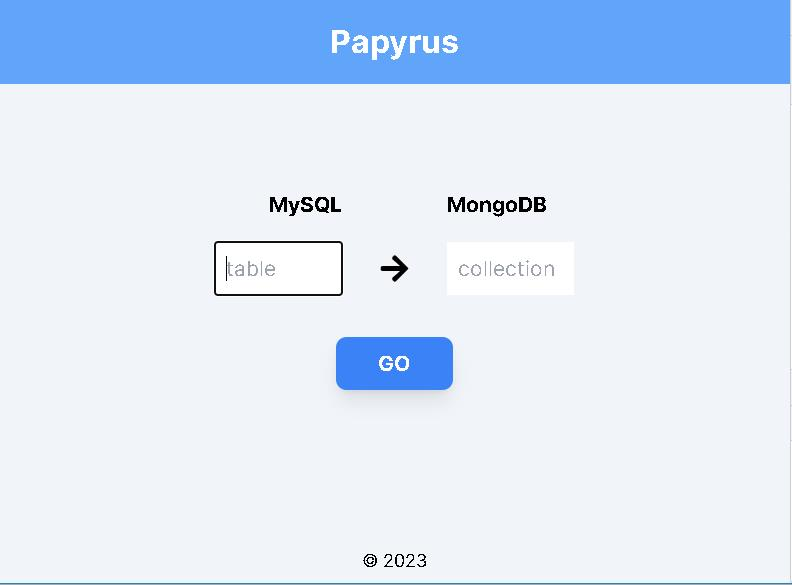
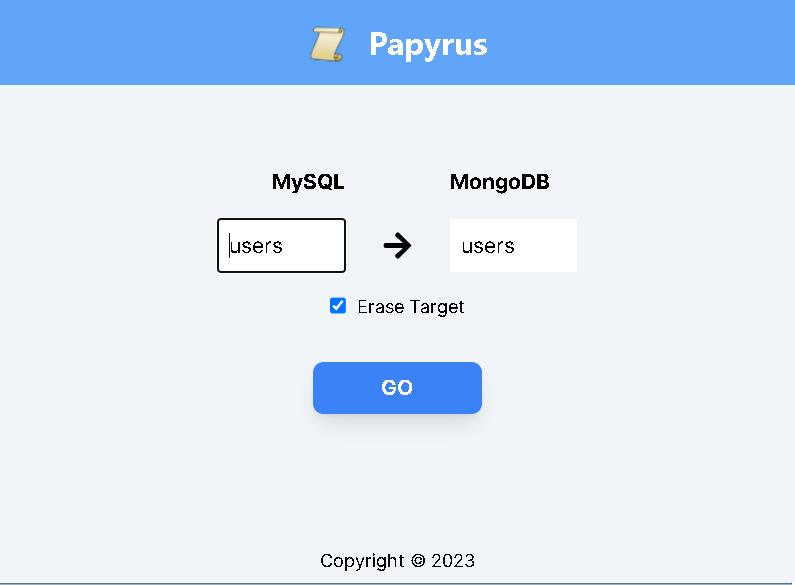
works

diff --git a/src/components/Main.js b/src/components/Main.js
@@ -1,27 +1,48 @@
 "use client"
 import { FaArrowLeft, FaArrowRight } from "react-icons/fa";
 import { M2M, Mdelete } from '@/server-actions/actions'
-import { useState } from 'react'
+import { useState, useEffect } from 'react'
 import toast, { Toaster } from 'react-hot-toast'
 
 const Main = () => {
     const [direction, setDirection] = useState('MySQL')
+    const [erase, setErase] = useState(true)
     const [table, setTable] = useState('users')
     const [collection, setCollection] = useState('users')
+    const [disable, setDisable] = useState(false)
+
+    useEffect(()=>{
+      if (table.trim()!=='' && collection.trim()!=='')
+        setDisable(false)
+      else 
+        setDisable(true)
+    }, [table, collection])
 
     const handleArrowClick = () => {
       if (direction==='MySQL') 
         setDirection('MongoDB')
       else
         setDirection('MySQL')
-    }
-    const handleClick = () => {
-      Mdelete(direction, table, collection)
-        .then(result => console.log(result))
-        .catch(err => console.log(err))
+    }   
+    
+    const handleGoClick = async () => {      
+      // M2M(direction, table, collection)
+      //   .then(result => console.log(result))
+      //   .catch(err => console.log(err))
+      try {
+        if (erase) {
+          const resultErase = await Mdelete(direction, table, collection)
+          console.log('resultErase=', resultErase)
+        }
+        const resultCopy = await M2M(direction, table, collection)
+        console.log('resultCopy=', resultCopy)
+      } catch(error) {
+        console.log(error)
       }
+    }
+    
     return (        
-        <div className='flex flex-col items-center justify-center h-2/3'>
+        <main className='flex flex-col items-center justify-center h-4/6'>
           
           <div className='flex flex-row items-center gap-4 mt-4 justify-self-stretch'>
               <span className='w-24 font-bold text-right'>MySQL</span>
@@ -40,14 +61,21 @@ const Main = () => {
               onChange={ e => setCollection(e.target.value) } defaultValue={collection} />
           </div>
           
+          <div className='flex gap-2 mt-4'>
+            <input id='erase' type='checkbox' 
+            checked={erase ? 'checked':''} onChange={ () => setErase(! erase) }></input>
+            <label htmlFor='erase' className='text-sm capitalize'>erase target</label>
+          </div>
+
           <div>
-            <button className='w-auto px-8 py-2 mt-8 font-bold text-white uppercase bg-blue-500 rounded-lg shadow-lg hover:bg-blue-400' onClick={handleClick}>go</button>
+            <button className='w-32 px-8 py-2 mt-8 font-bold text-white uppercase bg-blue-500 rounded-lg shadow-lg hover:bg-blue-400 disabled:bg-gray-300 disabled:cursor-not-allowed' 
+            onClick={handleGoClick} disabled={ disable?'disabled':'' }>go</button>
           </div>
 
           <div>
             <Toaster position="bottom-center" reverseOrder={true} />
           </div>
-        </div>
+        </main>
     )
 }
 

diff --git a/src/server-actions/actions.js b/src/server-actions/actions.js
@@ -27,11 +27,13 @@ export const M2M = async (direction, table, collection) => {
         }
         else 
         {
+            console.log(resTo)
             return resTo
         }
     }
     else 
     {
+        console.log(resForm)
         return resFrom
     }
 }
@@ -42,17 +44,15 @@ export const Mdelete = async (direction, table, collection) => {
     if (direction==='MySQL') {
         apiURI = `${process.env.API_URL}/mongodb?collection=${collection}`        
     } else {
-        apiURI = `${process.env.API_URL}/mysql?table=${table}`        
+        apiURI = `${process.env.API_URL}/mysql?table=${table}`
     }
-    console.log('apiURI=', apiURI)
-    const res = await fetch(apiURI, { method: 'DELETE' })
-    if (res.ok) {
-        console.log('delete ok')
-        const data = await res.json()
+    
+    const res = await fetch(apiURI, { cache: 'no-store', method: 'DELETE' })
+    if (res.ok) {                
+        const data = await res.json()        
         return data
     }
     else {
-        console.log('delete fail')
         console.log(res)
         return res
     }    

diff --git a/src/components/Header.js b/src/components/Header.js
@@ -1,7 +1,10 @@
-import React from 'react'
+import Image from 'next/image'
 
 const Header = () => {
-    return <div className="py-4 text-2xl font-bold text-center text-white capitalize bg-blue-400">papyrus</div>
+    return (<header className="py-4 font-sans text-2xl font-bold text-center text-white capitalize bg-blue-400">                
+        <Image alt='evandromyller-Papyrus' src='/evandromyller-Papyrus.png' width={30} height={30} quality={100} className='inline mr-4 align-text-bottom' />
+        papyrus
+    </header>)
 }
 
 export default Header

diff --git a/src/components/Footer.js b/src/components/Footer.js
@@ -1,7 +1,5 @@
-import React from 'react'
-
 const Footer = () => {
-    return <div className="fixed w-screen text-sm text-center bottom-2">&copy; 2023</div>    
+    return <footer className="fixed w-screen text-sm text-center bottom-2">Copyright &copy; 2023</footer>    
 }
 
 export default Footer
